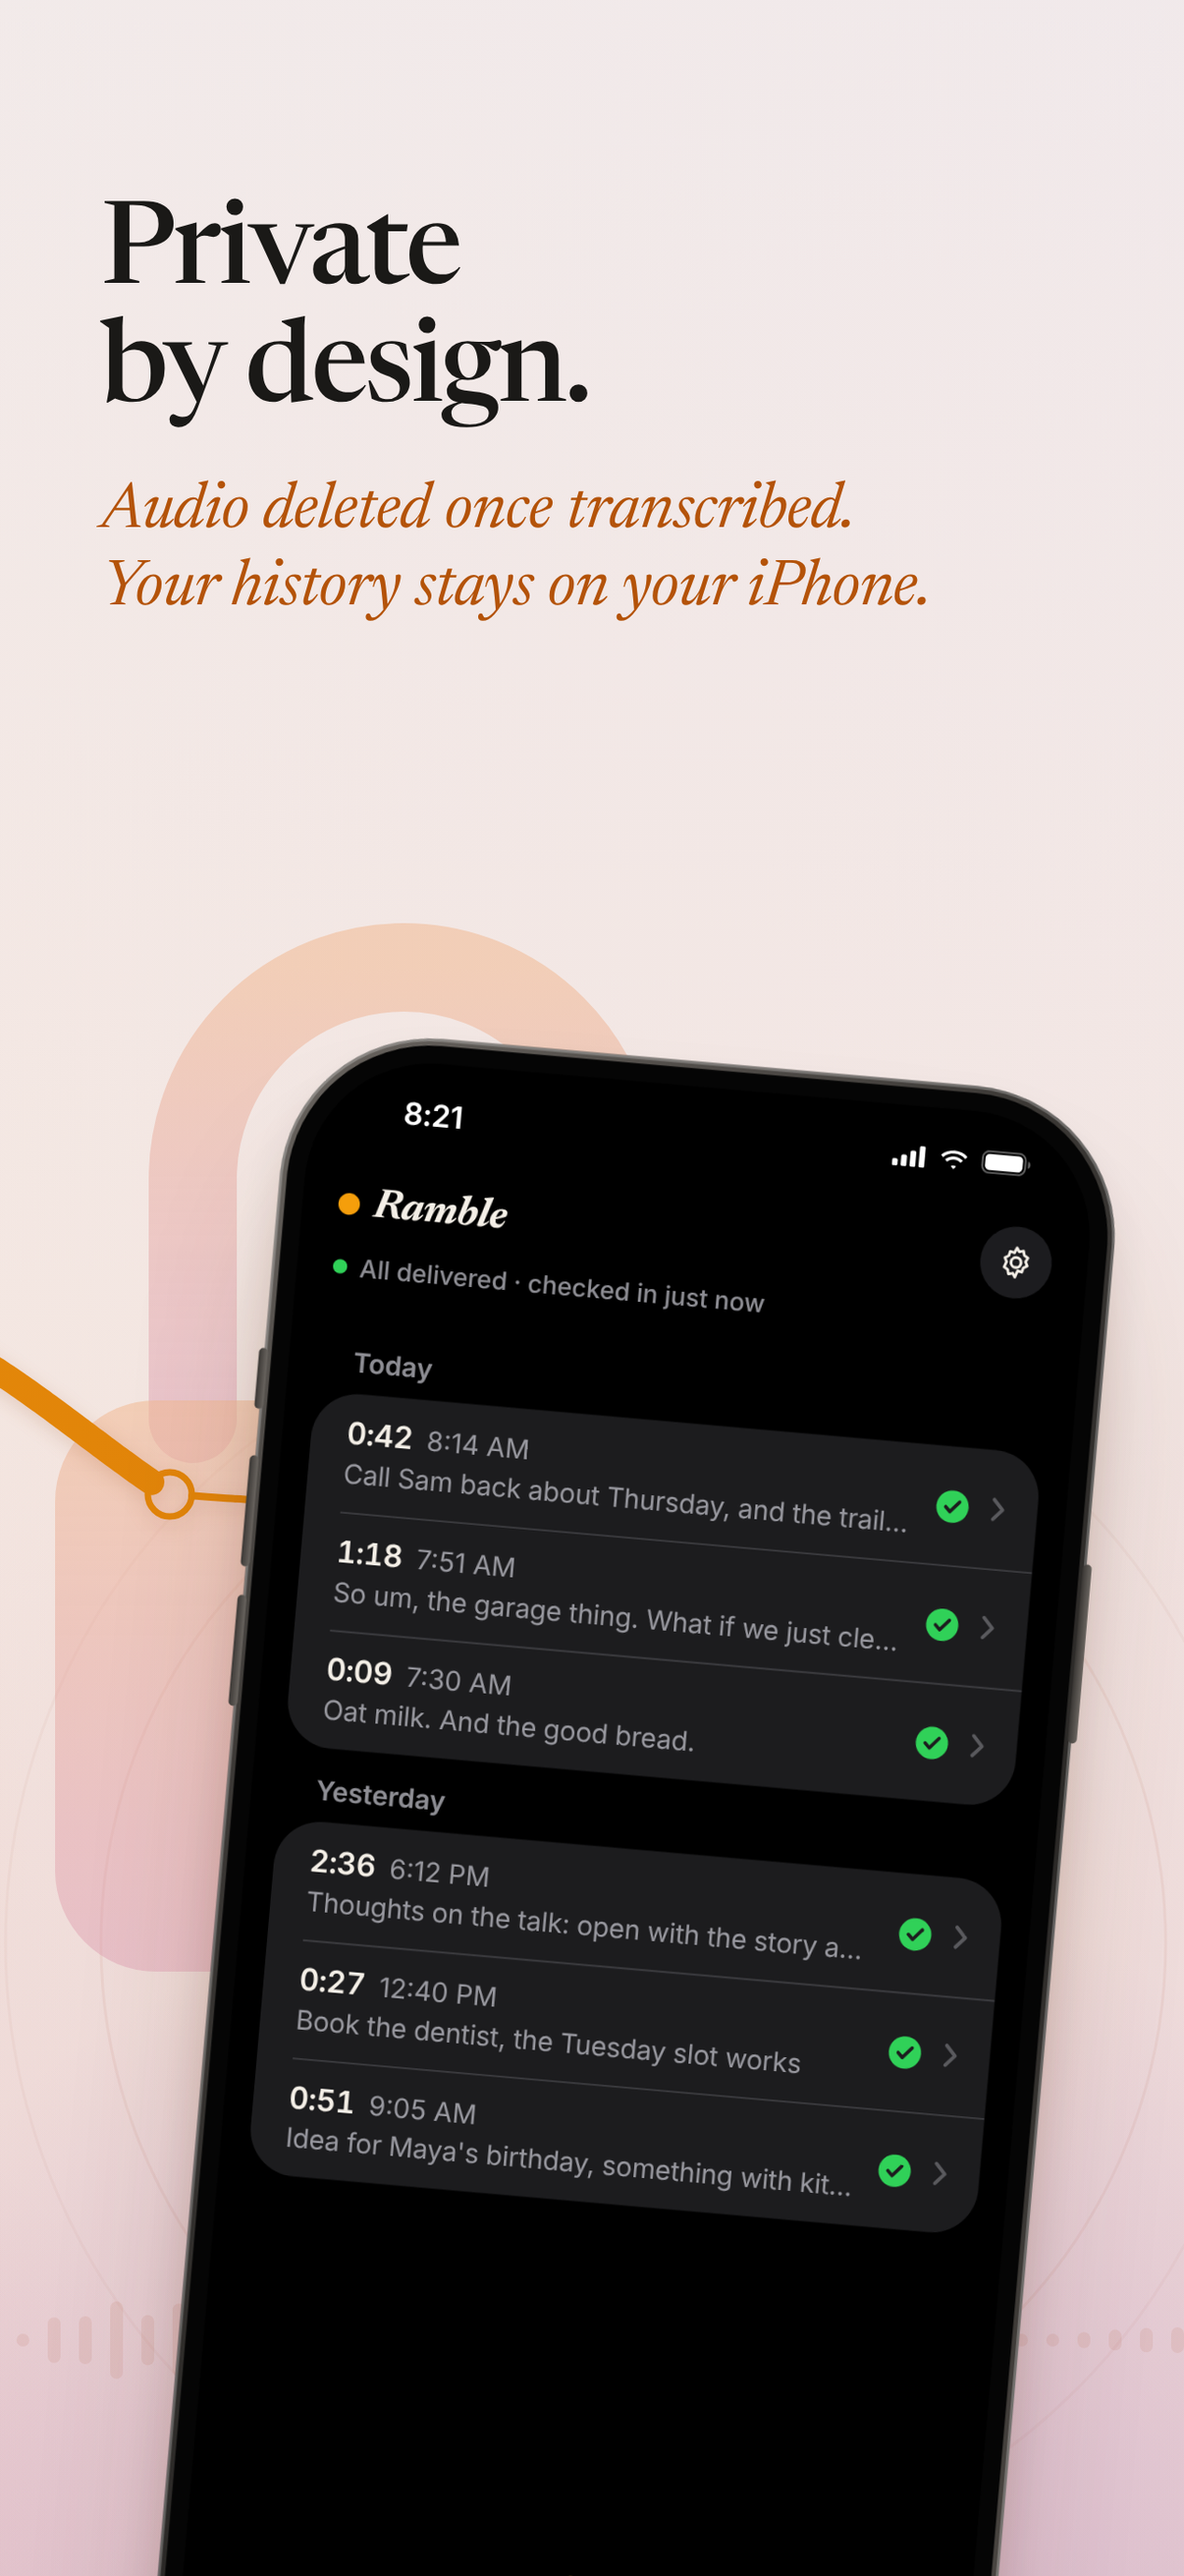
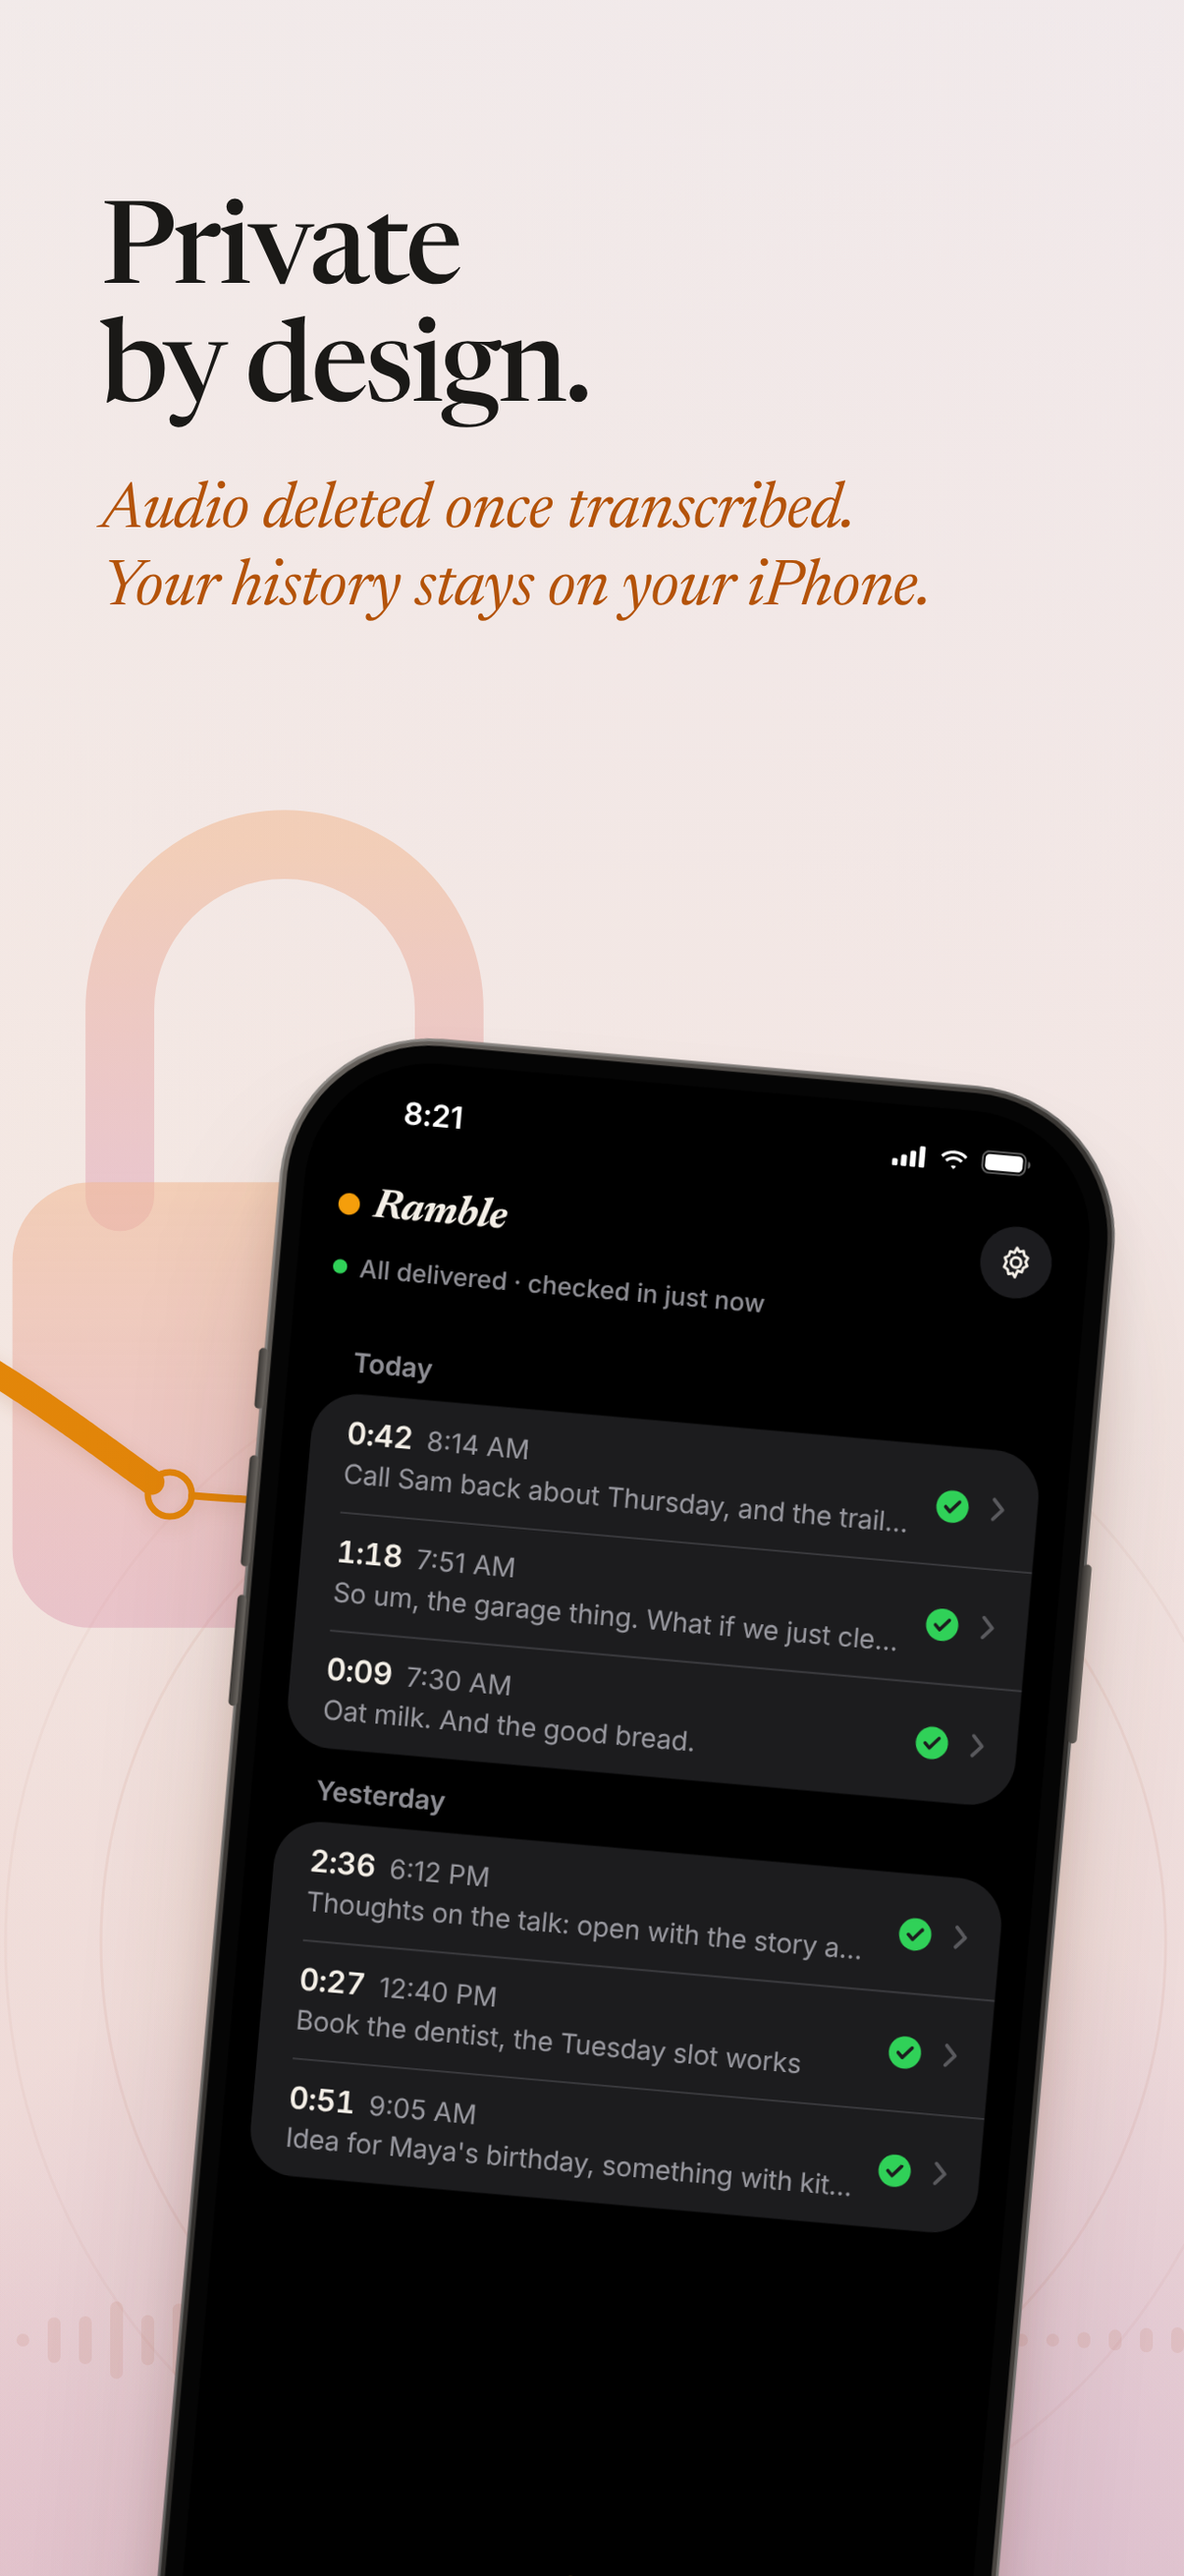
App Store screenshots: curvature-smooth S in frame 3, smaller lock up and left
Claude-Session: https://claude.ai/code/session_01TreUG6Gw8YWAnJM4u7RM4H

Changed region(s): [[0.0, 0.3089, 0.5216, 0.7723]]

diff --git a/images/appstore/2026-sunset/source/one-line.html b/images/appstore/2026-sunset/source/one-line.html
@@ -677,14 +677,15 @@ if (params.has('ipad')) NODES_T[10] = [4640, MSGY, 0, 420, 560];
 // flow: one hand-drawn line through all five frames (Justin's sketch). A centripetal Catmull-Rom spline through
 // loose points, so it bends like a pen stroke: up out of the watch, a hairpin with the words, round into the
 // watch, across the phone under the message, and level into the relay node.
-const FLOW = [
-  [1112, 1806], [1380, 1600], [1720, 1385], [2110, 1190], [2520, 1060],       // F1-F2: rising, dotted until it reconnects
-  [2960, 1004], [3340, 1010], [3590, 1130],                                   // F3: run A, one wide hairpin
-  [3420, 1320], [3000, 1520], [2760, 1760], [2860, 1960], [3110, 2010],       //     run B down to the left, round into the watch
-  [3420, 1975], [3740, 1830], [3990, MSGY + 120], [4300, MSGY + 30], [4700, MSGY + 20], // F4: out by the crown, up into the message
-  [5060, MSGY + 90], [5345, 1622],                                            // F5: easing down into the relay node
-];
-function flowPath(P, alpha = 0.5) {
+// Frames 1-2 and 4-5 are a centripetal Catmull-Rom spline through loose points. Frame 3's S is drawn by
+// curvature instead: each turn is a raised-cosine curvature bump (zero at both ends), so the curvature never
+// jumps and the S reads as one pen stroke. The whole line is then resampled and Gaussian-smoothed.
+const FLOW_A = [[1112, 1806], [1380, 1600], [1720, 1385], [2110, 1190], [2520, 1060]];   // F1-F2: rising, dotted until it reconnects
+const FLOW_C = [[3740, 1830], [3990, MSGY + 120], [4300, MSGY + 30], [4700, MSGY + 20],      // F4: out by the crown, up into the message
+  [5060, MSGY + 90], [5345, 1622]];                                                         // F5: easing down into the relay node
+// F3: [kind, turn in degrees or length, arc length]
+const FLOW_S = [['c', 0, 520], ['s', 260], ['c', 158, 760], ['s', 380], ['c', -166, 1000], ['s', 200]];
+function crPoints(P, alpha = 0.5) {
   const Q = [[2 * P[0][0] - P[1][0], 2 * P[0][1] - P[1][1]], ...P, [2 * P[P.length - 1][0] - P[P.length - 2][0], 2 * P[P.length - 1][1] - P[P.length - 2][1]]];
   const out = [P[0]];
   for (let i = 1; i < Q.length - 2; i++) {
@@ -699,9 +700,38 @@ function flowPath(P, alpha = 0.5) {
       out.push(L2(B1, B2, t1, t2));
     }
   }
-  return 'M' + out.map(q => q[0].toFixed(1) + ',' + q[1].toFixed(1)).join(' L');
+  return out;
 }
-const d = LINE === 'flow' ? flowPath(FLOW) : LINE === 'sine' ? 'M' + LP.map(q => q[0].toFixed(1) + ',' + q[1].toFixed(1)).join(' L') : nodesToPath(LINE === 'r9' ? NODES : NODES_T);
+function turtle(x, y, th, segs) {
+  const out = [];
+  for (const [kind, a, b] of segs) {
+    if (kind === 's') { const n = Math.ceil(a / 4); for (let i = 0; i < n; i++) { x += Math.cos(th) * a / n; y += Math.sin(th) * a / n; out.push([x, y]); } }
+    else { const dth = a * Math.PI / 180, n = Math.ceil(b / 4), ds = b / n;
+      for (let i = 0; i < n; i++) { const s = (i + 0.5) * ds; th += dth / b * (1 - Math.cos(2 * Math.PI * s / b)) * ds; x += Math.cos(th) * ds; y += Math.sin(th) * ds; out.push([x, y]); } }
+  }
+  return out;
+}
+function flowPath() {
+  const A = crPoints(FLOW_A), [xa, ya] = A[A.length - 1], [xp, yp] = A[A.length - 2];
+  const S = FLOW_S.map(q => q.slice()); const th0 = Math.atan2(ya - yp, xa - xp); S[0][1] = -th0 * 180 / Math.PI;   // first bump levels the line
+  const B = turtle(xa, ya, th0, S);
+  const C = crPoints([B[B.length - 1], ...FLOW_C]);
+  let P = [...A, ...B, ...C.slice(1)];
+  // resample every 4 px, then a Gaussian blur along the line (endpoints pinned)
+  const R = [P[0]]; let acc = 0;
+  for (let i = 1; i < P.length; i++) { const dd = Math.hypot(P[i][0] - P[i - 1][0], P[i][1] - P[i - 1][1]); acc += dd;
+    while (acc >= 4) { const t = 1 - (acc - 4) / dd; R.push([P[i - 1][0] + (P[i][0] - P[i - 1][0]) * t, P[i - 1][1] + (P[i][1] - P[i - 1][1]) * t]); acc -= 4; } }
+  R.push(P[P.length - 1]);
+  const SIG = 14, W = 3 * SIG, G = [];
+  for (let k = -W; k <= W; k++) G.push(Math.exp(-k * k / (2 * SIG * SIG)));
+  for (let pass = 0; pass < 2; pass++) {
+    const Rn = R.map((p, i) => { const w = Math.min(W, i, R.length - 1 - i); if (w === 0) return p;
+      let sx = 0, sy = 0, sw = 0; for (let k = -w; k <= w; k++) { const g = G[k + W]; sx += R[i + k][0] * g; sy += R[i + k][1] * g; sw += g; } return [sx / sw, sy / sw]; });
+    R.splice(0, R.length, ...Rn);
+  }
+  return 'M' + R.map(q => q[0].toFixed(1) + ',' + q[1].toFixed(1)).join(' L');
+}
+const d = LINE === 'flow' ? flowPath() : LINE === 'sine' ? 'M' + LP.map(q => q[0].toFixed(1) + ',' + q[1].toFixed(1)).join(' L') : nodesToPath(LINE === 'r9' ? NODES : NODES_T);
 const spine = document.getElementById('spine'), ink = document.getElementById('ink');
 spine.setAttribute('d', d);
 const L = spine.getTotalLength();
@@ -764,9 +794,9 @@ const sSolid = sAtX(2480), sNodeF = L;
   const thin = nodesToPath([[pN.x + 24, pN.y + 1.5, 4, 0, 50], [5470, 1628, 0, 50, 80], [5720, 1628, 0, 80, 0]]);
   el('path', { d: thin, fill: 'none', 'stroke-width': 8, 'stroke-linecap': 'round' });
 }
-say('wA', sNear(2640, 1040), sNear(3380, 1004), 'so um, the garage thing… wait, oat milk…');
-const sB0f = sNear(3500, 1260, sNear(3590, 1130));
-say('wB', sB0f, sNear(2800, 1680, sB0f), 'and call Sam back about Thursday…');
+say('wA', sNear(2700, 1000), sNear(3420, 984), 'so um, the garage thing… wait, oat milk…');
+const sB0f = sNear(3453, 1325, sNear(3581, 1232));
+say('wB', sB0f, sNear(2861, 1568, sB0f), 'and call Sam back about Thursday…');
 } else {
 // 1) F1: evenly spaced voice bars easing down into the line
 const BARS1 = 7;
@@ -843,8 +873,8 @@ function fitWords() {
   }
   if (WASH) {
     // frame 5: a large, quiet lock behind the phone
-    const lx = 5600, ly = 1580;
-    const lg = mk('g', { opacity: .9 });
+    const lx = 5470, ly = 1330, k = 0.78;
+    const lg = mk('g', { opacity: .9, transform: `translate(${lx} ${ly}) scale(${k}) translate(${-lx} ${-ly})` });
     const ld = mk('defs', {}); ld.innerHTML = '<linearGradient id="lockg" x1="0" y1="0" x2="0" y2="1"><stop offset="0" stop-color="#F1B48A" stop-opacity=".55"/><stop offset="1" stop-color="#D98CA6" stop-opacity=".40"/></linearGradient>';
     const sh = document.createElementNS(ns, 'path');
     for (const [a, v] of Object.entries({ d: `M${lx - 230},${ly - 40} V${ly - 300} A230,230 0 0 1 ${lx + 230},${ly - 300} V${ly - 40}`, fill: 'none', stroke: 'url(#lockg)', 'stroke-width': 96, 'stroke-linecap': 'round' })) sh.setAttribute(a, v);
